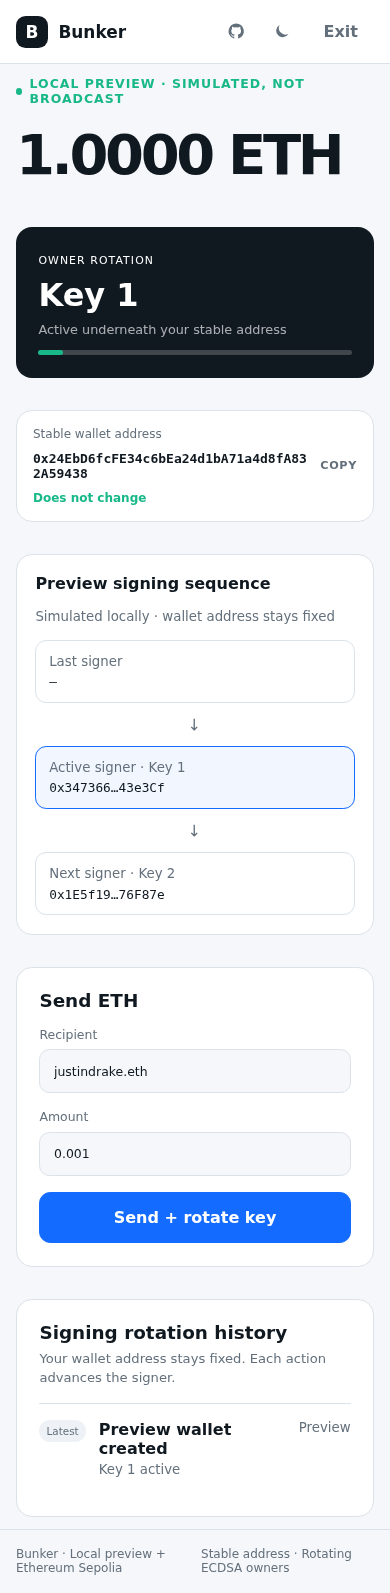
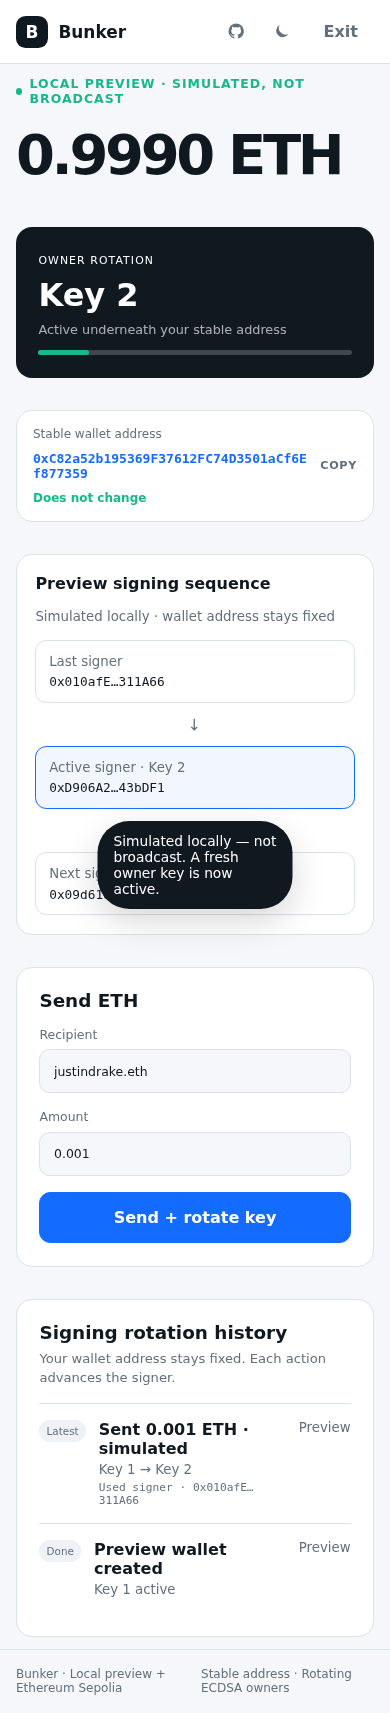
Track simulated ETH balance and history amounts

diff --git a/apps/web/src/App.tsx b/apps/web/src/App.tsx
@@ -24,8 +24,8 @@ export default function App(){
  const checkFunding=async()=>{const address=setupAddress();if(!address)return;setBusy("Checking testnet balance…");try{const balance=await readSepoliaBalance(address);setSetupBalance(balance);setNotice(balance>=parseEther("0.007")?"Funds received. Your stable wallet is ready to create.":"No test ETH yet. Faucets can take a minute.")}catch(e){setNotice(e instanceof Error?e.message:"Could not read Ethereum Sepolia.")}finally{setBusy("")}};
  const refreshWallet=async()=>{if(mode()==="local")return;const wallet=walletAddress();if(!wallet)return;const state=await readDemoWallet(wallet);setWalletBalance(state.balance);setOwner(state.owner);setRotation(state.index)};
  const createStableWallet=async()=>{setBusy("Creating your stable address…");try{if(mode()==="local"){const address=localAddress();setWalletAddress(address);setWalletBalance(parseEther("1"));setOwner(localAddress());setRotation(0);setActivity([{label:"Local wallet created · simulated",index:0}]);go("wallet");return}const address=await deployDemoWallet();setWalletAddress(address);localStorage.setItem("bunker-demo-wallet",address);await refreshWallet();setActivity([{label:"Stable wallet created",index:0}]);go("wallet")}catch(e){setNotice(e instanceof Error?e.message:"Wallet creation failed.")}finally{setBusy("")}};
- const afterAction=async(label:string,hash?:string)=>{if(mode()==="local"){const used=owner(),active=nextSigner(),next=rotation()+1;if(!used||!active)return;setRotation(next);setOwner(active);setNextSigner(localAddress());setActivity(rows=>[{label:`${label} · simulated`,index:next,usedSigner:used,activeSigner:active},...rows]);setNotice("Simulated locally — not broadcast. A fresh owner key is now active.");return}await refreshWallet();setActivity(rows=>[{label,hash:hash!,index:rotation()},...rows]);setNotice("Confirmed on Ethereum Sepolia. A fresh owner key is now active.")};
- const runETH=async()=>{if(!walletAddress()||!(mode()==="local"?to.value.trim():isAddress(to.value))||!amount.value)return setNotice("Enter a valid recipient and ETH amount.");setBusy("Sending ETH and rotating the owner key…");try{await afterAction("ETH sent",mode()==="local"?undefined:await demoSendETH(walletAddress()!,to.value as Address,parseEther(amount.value)))}catch(e){setNotice(e instanceof Error?e.message:"Transfer failed.")}finally{setBusy("")}};
+ const afterAction=async(label:string,hash?:string,sentAmount?:bigint)=>{if(mode()==="local"){const used=owner(),active=nextSigner(),next=rotation()+1;if(!used||!active||sentAmount===undefined)return;setWalletBalance(balance=>balance-sentAmount);setRotation(next);setOwner(active);setNextSigner(localAddress());setActivity(rows=>[{label:`${label} · simulated`,index:next,usedSigner:used,activeSigner:active},...rows]);setNotice("Simulated locally — not broadcast. A fresh owner key is now active.");return}await refreshWallet();setActivity(rows=>[{label,hash:hash!,index:rotation()},...rows]);setNotice("Confirmed on Ethereum Sepolia. A fresh owner key is now active.")};
+ const runETH=async()=>{if(!walletAddress()||!(mode()==="local"?to.value.trim():isAddress(to.value))||!amount.value)return setNotice("Enter a valid recipient and ETH amount.");let value:bigint;try{value=parseEther(amount.value)}catch{return setNotice("Enter a valid ETH amount.")}if(value<=0n)return setNotice("Enter an ETH amount greater than zero.");if(mode()==="local"&&value>walletBalance())return setNotice("Preview balance is too low for that amount.");setBusy("Sending ETH and rotating the owner key…");try{await afterAction(`Sent ${formatEther(value)} ETH`,mode()==="local"?undefined:await demoSendETH(walletAddress()!,to.value as Address,value),value)}catch(e){setNotice(e instanceof Error?e.message:"Transfer failed.")}finally{setBusy("")}};
  const createPhrase=()=>{setMode("sepolia");setConfirmed(false);secretMnemonic=newMnemonic();queueMicrotask(()=>{phraseList.replaceChildren(...secretMnemonic!.split(" ").map((word,index)=>{const li=document.createElement("li"),n=document.createElement("span");n.textContent=String(index+1);li.append(n,word);return li}))});go("phrase")};
  const verifyWords=()=>{const words=secretMnemonic?.split(" ");if(!words)return;if(confirmInputs.map(input=>input.value.trim().toLowerCase()).join("|")!==[2,8,17].map(i=>words[i]).join("|"))return setNotice("Those words do not match.");go("vault")};
  const finishSecure=async(persist:boolean)=>{if(!secretMnemonic)return;if(persist){if(password.value.length<12)return setNotice("Use at least 12 characters.");const encrypted=await encryptMnemonic(secretMnemonic,password.value,{chainId:11155111,derivation:"m/44'/60'/7331'/0/index",sequenceVersion:1});localStorage.setItem("bunker-vault",JSON.stringify(encrypted))}const address=loadMnemonicSigner(secretMnemonic);setRecoverable(true);setSetupAddress(address);wipe();go("setup")};

diff --git a/tests/e2e/web.e2e.ts b/tests/e2e/web.e2e.ts
@@ -47,9 +47,12 @@ test("local preview rotates without blockchain access", async ({ page }) => {
   await expect(page.getByRole("button", { name: "Wall", exact: true })).toHaveCount(0);
   await expect(page.getByLabel("Recipient")).toHaveValue("justindrake.eth");
   await expect(page.getByLabel("Amount")).toHaveValue("0.001");
+  await expect(page.getByRole("heading", { name: "1.0000 ETH" })).toBeVisible();
   const previousSigner = await page.locator(".signer-steps .current code").innerText();
   await page.getByRole("button", { name: "Send + rotate key" }).click();
   await expect(page.getByRole("status")).toContainText("Simulated locally — not broadcast");
+  await expect(page.getByRole("heading", { name: "0.9990 ETH" })).toBeVisible();
+  await expect(page.locator(".activity-row").first()).toContainText("Sent 0.001 ETH");
   await expect(page.getByText("Key 2", { exact: true })).toBeVisible();
   await expect(page.locator(".signer-steps .current code")).not.toHaveText(previousSigner);
   await expect(page.locator(".activity-row code").first()).toContainText(previousSigner);
